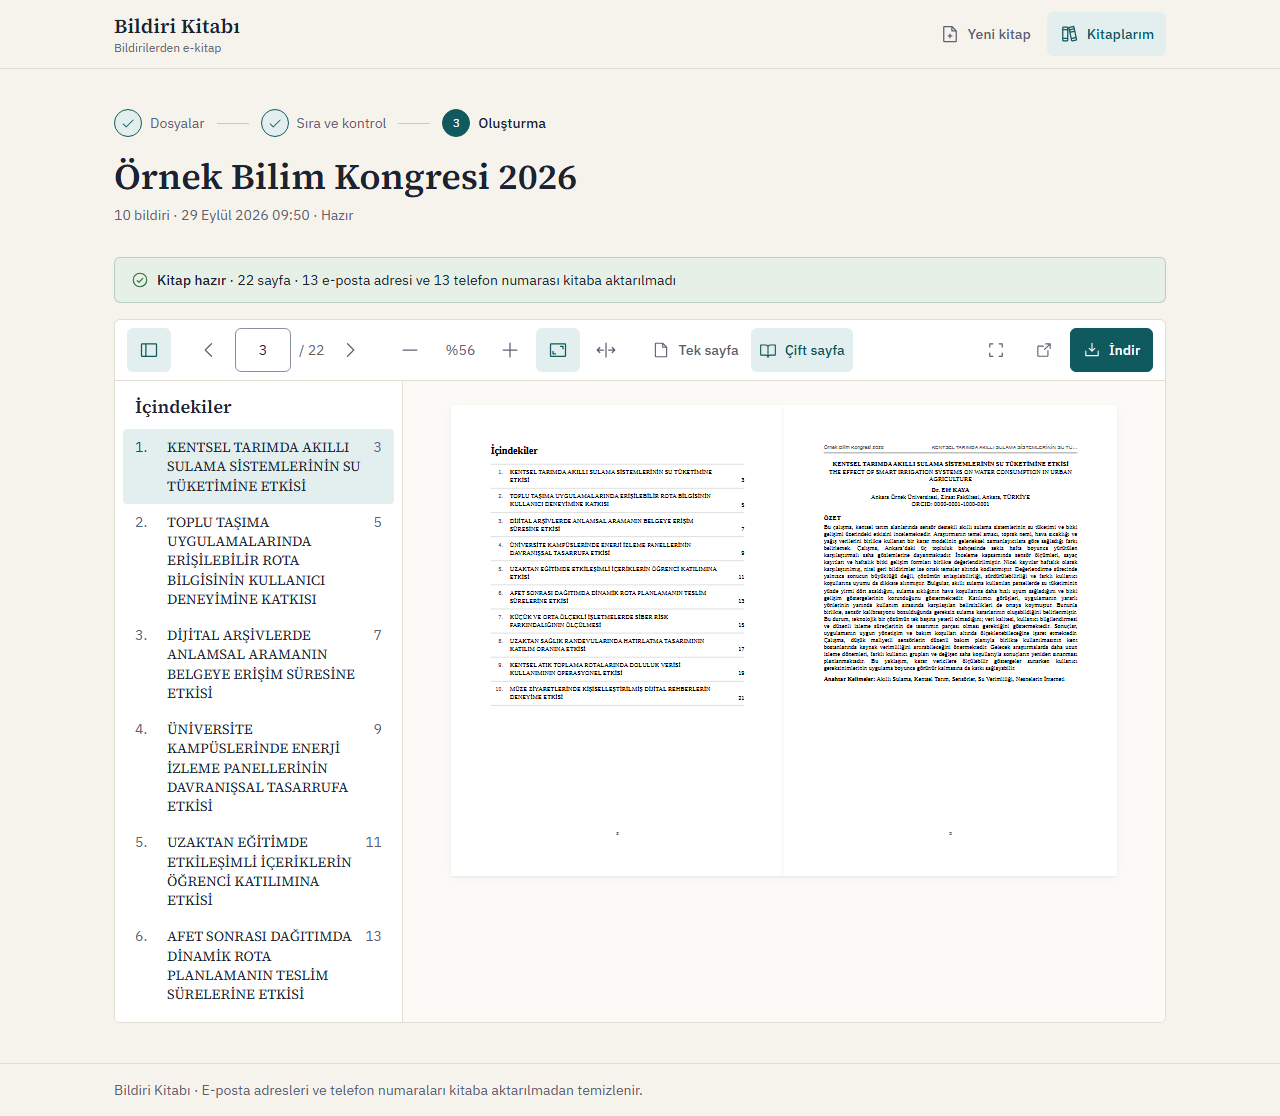
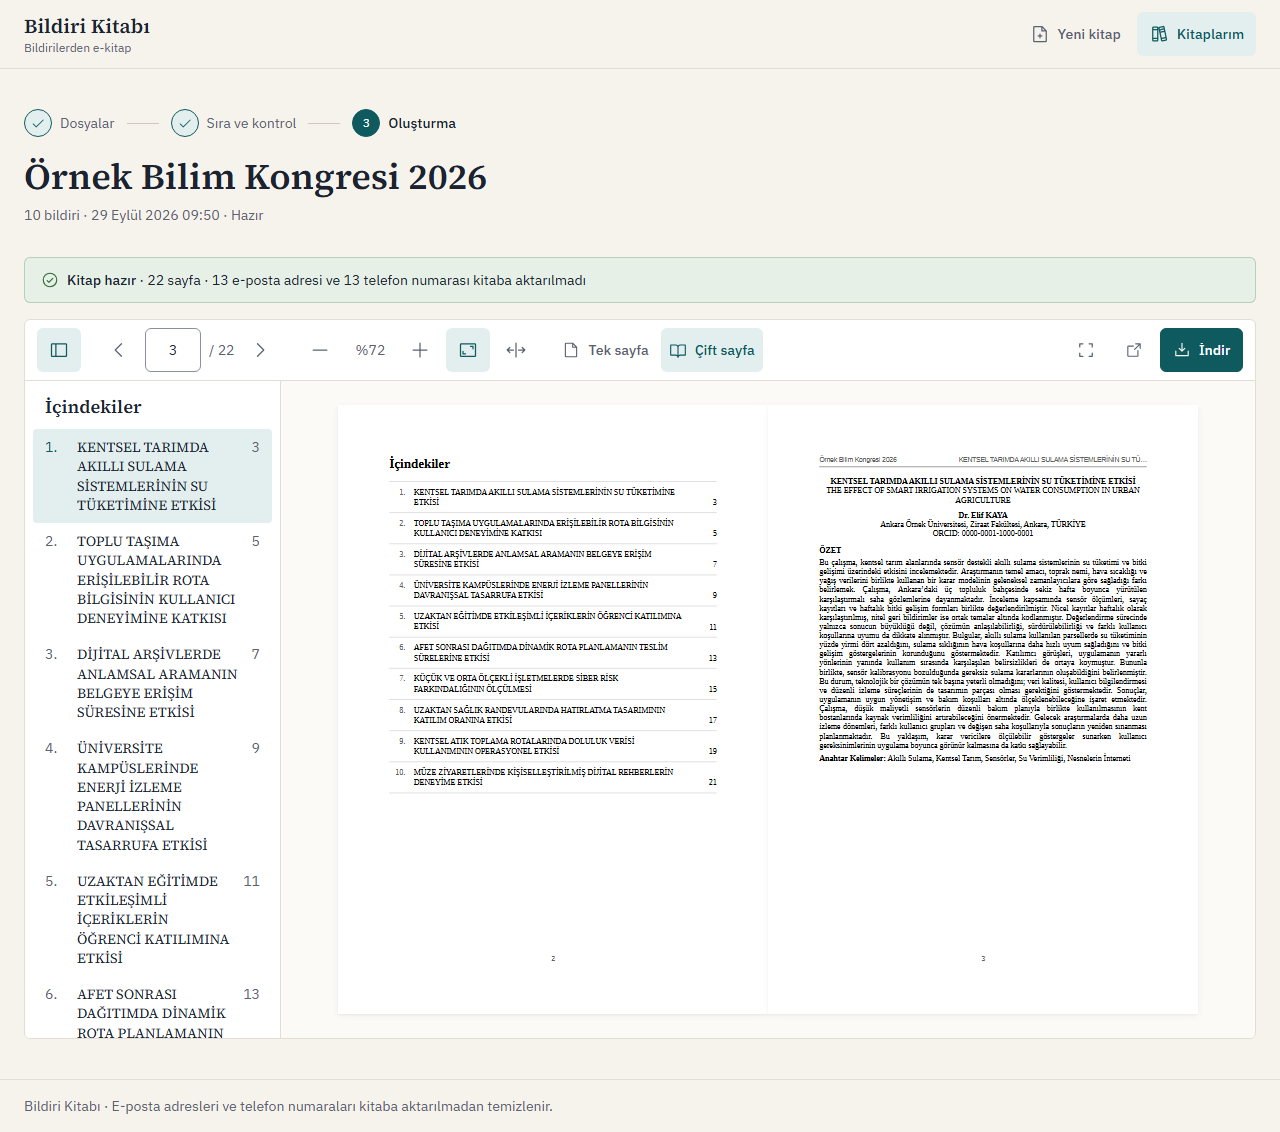
feat: görüntüleyici pencere yüksekliğini kullanıyor, çift sayfa için sayfa genişliyor ve yüksek çözünürlüklü ekranlarda net çiziliyor

diff --git a/frontend/src/features/viewer/PdfViewer.tsx b/frontend/src/features/viewer/PdfViewer.tsx
@@ -31,6 +31,7 @@ type Zoom = { fit: 'page' } | { fit: 'width' } | { scale: number };
 const MIN_SCALE = 0.5;
 const MAX_SCALE = 3;
 const SCALE_STEP = 0.25;
+const MAX_PIXEL_RATIO = 2;
 const AREA_PADDING = { desktop: 24, phone: 8 };
 
 /** Width and height of an element, kept up to date. */
@@ -98,8 +99,9 @@ export function PdfViewer({ book }: { book: BookDetail }) {
   // Page size in CSS pixels: fit the width or the whole page into the area, or an explicit scale.
   const slots = mode === 'double' ? 2 : 1;
   const aspect = pageSize.height / pageSize.width;
-  const availableWidth = Math.max(160, (area.width || 800) - padding * 2);
-  const availableHeight = Math.max(200, (area.height || 1000) - padding * 2);
+  // The observed size is the content box: the area's padding is already taken off.
+  const availableWidth = Math.max(160, area.width || 800 - padding * 2);
+  const availableHeight = Math.max(200, area.height || 1000 - padding * 2);
   const fitWidth = availableWidth / slots;
   const pageWidth = Math.floor(
     'scale' in effectiveZoom
@@ -109,6 +111,11 @@ export function PdfViewer({ book }: { book: BookDetail }) {
         : Math.min(fitWidth, availableHeight / aspect),
   );
   const pageHeight = Math.round(pageWidth * aspect);
+  // Sharp on high-density screens, but a 3x phone does not need three times the canvas memory.
+  const pixelRatio = Math.min(
+    MAX_PIXEL_RATIO,
+    typeof window === 'undefined' ? 1 : window.devicePixelRatio || 1,
+  );
   const scalePercent = Math.round((pageWidth / pageSize.width) * 100);
 
   const goToPage = useCallback(
@@ -248,6 +255,7 @@ export function PdfViewer({ book }: { book: BookDetail }) {
         <Page
           pageNumber={pageNumber}
           width={pageWidth}
+          devicePixelRatio={pixelRatio}
           renderTextLayer
           renderAnnotationLayer
           loading={<Skeleton className="absolute inset-0" />}
@@ -277,9 +285,11 @@ export function PdfViewer({ book }: { book: BookDetail }) {
     <section
       ref={viewerRef}
       aria-label="PDF görüntüleyici"
+      // Lets the page layout widen to give the facing pages room (see Layout).
+      data-wide-page=""
       className={
         'flex flex-col overflow-hidden rounded-(--radius) border border-line bg-surface ' +
-        (fullscreen ? 'h-dvh rounded-none' : 'lg:h-[calc(100dvh-6rem)] lg:min-h-[36rem]')
+        (fullscreen ? 'h-dvh rounded-none' : 'lg:h-[calc(100dvh-5rem)] lg:min-h-[560px]')
       }
     >
       {desktop && (
@@ -399,7 +409,7 @@ export function PdfViewer({ book }: { book: BookDetail }) {
         {desktop && tocOpen && (
           <nav
             aria-label="Bildiriler"
-            className="relative w-72 shrink-0 overflow-y-auto border-r border-line bg-surface px-2 py-3"
+            className="relative w-64 shrink-0 overflow-y-auto border-r border-line bg-surface px-2 py-3"
           >
             <h2 className="px-3 pb-2 text-lg">İçindekiler</h2>
             {toc}
@@ -448,6 +458,7 @@ export function PdfViewer({ book }: { book: BookDetail }) {
                     key={pageNumber}
                     pageNumber={pageNumber}
                     width={pageWidth}
+                    devicePixelRatio={pixelRatio}
                     renderTextLayer={false}
                     renderAnnotationLayer={false}
                   />

diff --git a/frontend/src/app/Layout.tsx b/frontend/src/app/Layout.tsx
@@ -43,9 +43,9 @@ export function Layout() {
       >
         İçeriğe geç
       </a>
-      <div className="flex min-h-dvh flex-col">
+      <div className="group/app flex min-h-dvh flex-col">
         <header className="border-b border-line bg-paper">
-          <div className="mx-auto flex max-w-[1100px] items-center justify-between gap-4 px-4 py-3 sm:px-6">
+          <div className="mx-auto flex max-w-[1100px] group-has-[[data-wide-page]]/app:max-w-[1440px] items-center justify-between gap-4 px-4 py-3 sm:px-6">
             <Link to="/" className="flex flex-col leading-tight">
               <span className="font-serif text-xl font-semibold whitespace-nowrap text-ink">
                 Bildiri Kitabı
@@ -58,14 +58,17 @@ export function Layout() {
             </nav>
           </div>
         </header>
-        <main id="icerik" className="mx-auto w-full max-w-[1100px] flex-1 px-4 py-8 sm:px-6 sm:py-10">
+        <main
+          id="icerik"
+          className="mx-auto w-full max-w-[1100px] group-has-[[data-wide-page]]/app:max-w-[1440px] flex-1 px-4 py-8 sm:px-6 sm:py-10"
+        >
           {/* Keyed by path: moving to another page clears a caught error. */}
           <ErrorBoundary key={location.pathname}>
             <Outlet />
           </ErrorBoundary>
         </main>
         <footer className="border-t border-line">
-          <p className="mx-auto max-w-[1100px] px-4 py-4 text-sm text-ink-muted sm:px-6">
+          <p className="mx-auto max-w-[1100px] group-has-[[data-wide-page]]/app:max-w-[1440px] px-4 py-4 text-sm text-ink-muted sm:px-6">
             Bildiri Kitabı · E-posta adresleri ve telefon numaraları kitaba aktarılmadan temizlenir.
           </p>
         </footer>
